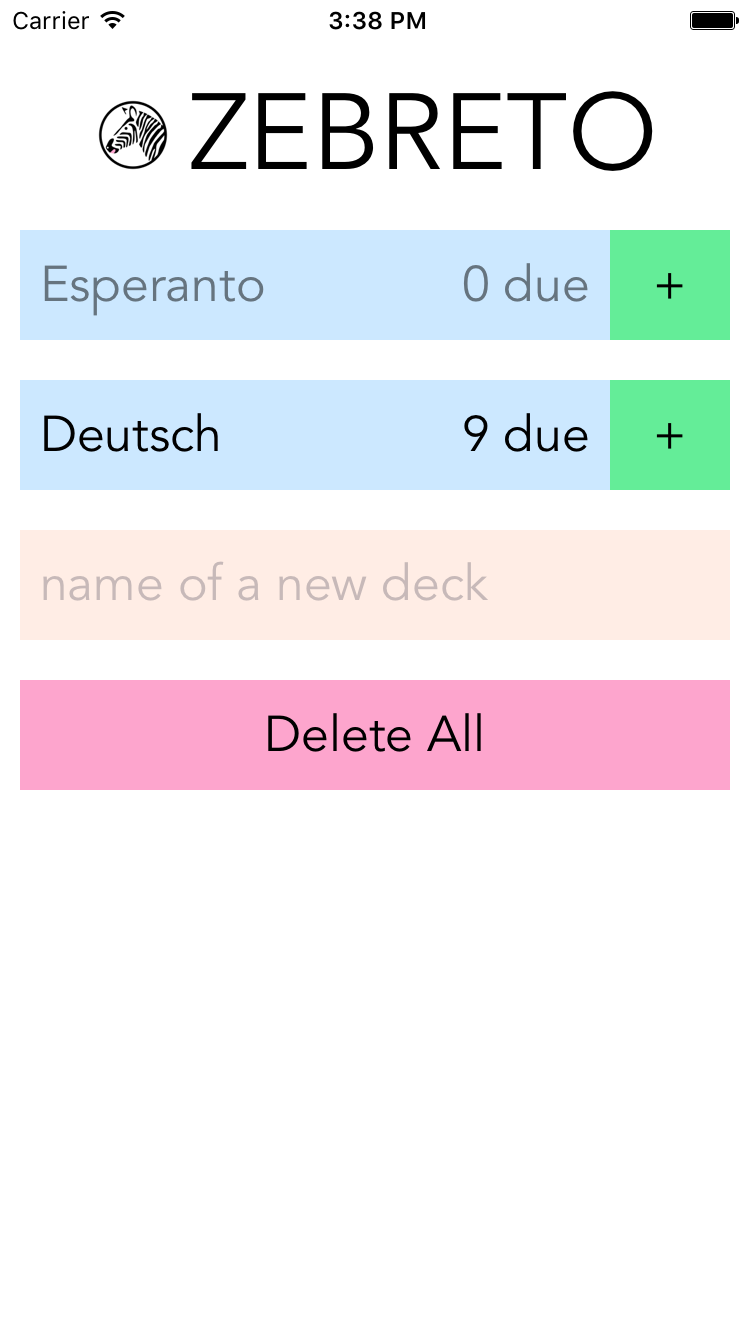
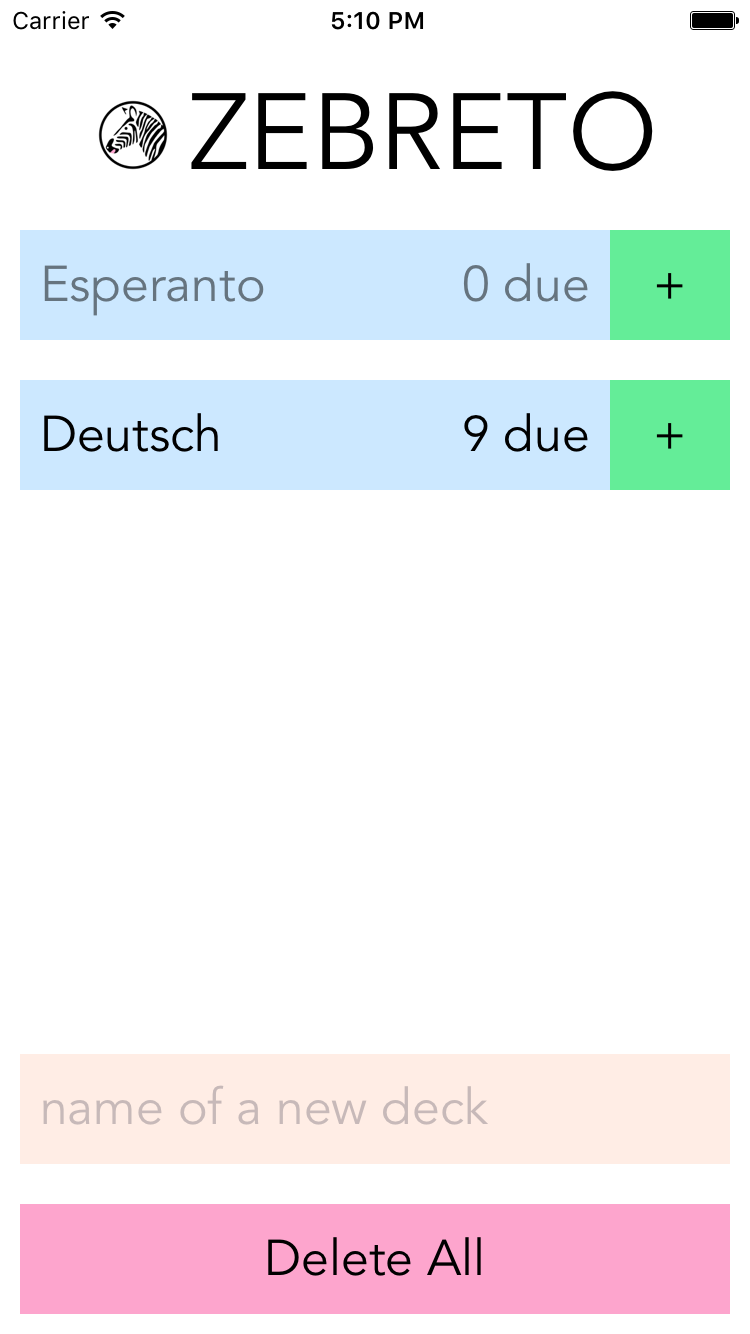
Zebreto: add DeckList to render decks as a ListView

diff --git a/Zebreto/src/components/Decks/DeckList.js b/Zebreto/src/components/Decks/DeckList.js
@@ -1,0 +1,79 @@
+import React, { Component, PropTypes } from 'react';
+import {
+  ListView,
+} from 'react-native';
+
+import Deck from './Deck';
+
+// The component to display the decks.
+export default class DeckList extends Component {
+  static displayName = 'DeckList';
+  static propTypes = {
+    createCards: PropTypes.func.isRequired,
+    decks: PropTypes.arrayOf(PropTypes.shape({
+      id: PropTypes.string.isRequired,
+    })).isRequired,
+    nCardsDue: PropTypes.func.isRequired,
+    reviewDeck: PropTypes.func.isRequired,
+  };
+
+  constructor(props) {
+    super(props);
+
+    this._dataSource = new ListView.DataSource({
+      getRowData: (dataBlob, sectionID, rowID) => dataBlob.get(rowID),
+      rowHasChanged: (r1, r2) => r1 !== r2,
+      sectionHeaderHasChanged: (s1, s2) => s1 !== s2,
+    });
+
+    // https://facebook.github.io/react/tips/props-in-getInitialState-as-anti-pattern.html
+    // Props in getInitialState is an anti-pattern. However, it's not an anti-pattern
+    // if the prop is only seed data for internally-controlled state of the component.
+    const { decks, nCardsDue } = this.props;
+    this.state = {
+      dataSource: this._getSource(decks, nCardsDue),
+    };
+  }
+
+  _getSource(decks, nCardsDue) {
+    // dataBlob is a map whose key is deck id and value is deck and number of cards due.
+    // see getRowData (above) and renderRow (below).
+    const dataBlob = new Map(decks.map((deck) => [deck.id, {
+      deck,
+      nCardsDue: nCardsDue(deck.id),
+    }]));
+
+    // Each deck corresponds to a section which has one row.
+    // ListView (below) has renderRow but not renderSectionHeader.
+    const sectionIDs = decks.map((deck) => deck.id);
+    const rowIDs = decks.map((deck) => [deck.id]);
+
+    return this._dataSource.cloneWithRowsAndSections(dataBlob, sectionIDs, rowIDs);
+  }
+
+  // React to a prop transition before render() is called by updating the state.
+  // Calling this.setState() within this function will not trigger an additional render.
+  componentWillReceiveProps({ decks, nCardsDue }) {
+    this.setState({
+      dataSource: this._getSource(decks, nCardsDue),
+    });
+  }
+
+  render() {
+    const { createCards, reviewDeck } = this.props;
+    return (
+      <ListView
+        dataSource={this.state.dataSource}
+        enableEmptySections={true}
+        renderRow={({ deck, nCardsDue }, sectionID, deckID) =>
+          <Deck key={deckID}
+            deck={deck}
+            nCardsDue={nCardsDue}
+            createCards={createCards}
+            reviewDeck={reviewDeck}
+          />
+        }
+      />
+    );
+  }
+}

diff --git a/Zebreto/src/components/Decks/index.js b/Zebreto/src/components/Decks/index.js
@@ -5,7 +5,7 @@ import {
 
 import Button from './../Button';
 import InterfaceText from './../InterfaceText';
-import Deck from './Deck';
+import DeckList from './DeckList';
 import DeckCreation from './DeckCreation';
 
 import { connect } from 'react-redux';
@@ -26,22 +26,9 @@ import colors from './../../styles/colors';
 import layout from './../../styles/layout';
 
 // The route scene component to start activities with decks.
-// View wrapper around decks is necessary to separate their `flex: 1`
-// from the `flex: 1` of the scene layout!
 const Decks = ({ createCards, createDeck, decks, deleteAll, nCardsDue, reviewDeck, status }) => (
   <View style={layout.scene}>
-    <View>
-      {
-        decks.map((deck) => (
-          <Deck key={deck.id}
-            deck={deck}
-            nCardsDue={nCardsDue(deck.id)}
-            createCards={createCards}
-            reviewDeck={reviewDeck}
-          />
-        ))
-      }
-    </View>
+    <DeckList createCards={createCards} decks={decks} nCardsDue={nCardsDue} reviewDeck={reviewDeck}/>
     <DeckCreation createDeck={createDeck} status={status}/>
     <Button style={colors.delete} onPress={deleteAll} disabled={decks.length === 0}>
       <InterfaceText>Delete All</InterfaceText>

diff --git a/Zebreto/README.md b/Zebreto/README.md
@@ -22,7 +22,7 @@ Zebreto has screens for decks, card creation, and card review:
 
 ### Creating a new deck and cards
 
-1. On the decks screen, tap the tan input box that displays **name of a new deck** as a placeholder, enter a deck name, and then tap **return**.
+1. On the decks screen, tap the tan input box that displays **name of a new deck** as a placeholder, enter a deck name, and then tap **return**. The keyboard covers the tan input box while you are tapping the name :(
 2. On the card creation screen, tap the first tan input box that displays **front of a new card** as a placeholder, enter the front, and then tap **return**.
 3. Tap the second tan input box that displays **back of a new card** as a placeholder, enter the back, and then tap **return**.
 4. Tap **Create Card**.
@@ -1071,8 +1071,8 @@ The Zebreto project depends on the following packages for development only:
 
 >Here are some ideas to get you started:
 * Add the ability to delete decks
+* Add a screen where you can view all cards in a deck
 * Display statistics about the card strengths in a deck
-* Change the `Decks` component to use a `ListView`
 
 * The original code as described in chapter 9 of the book:
 
